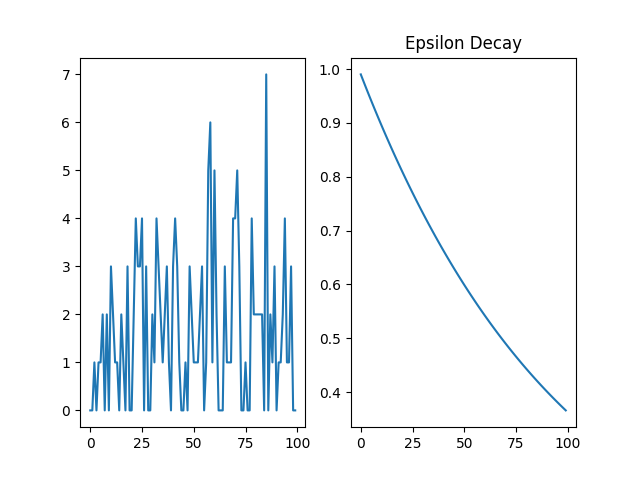
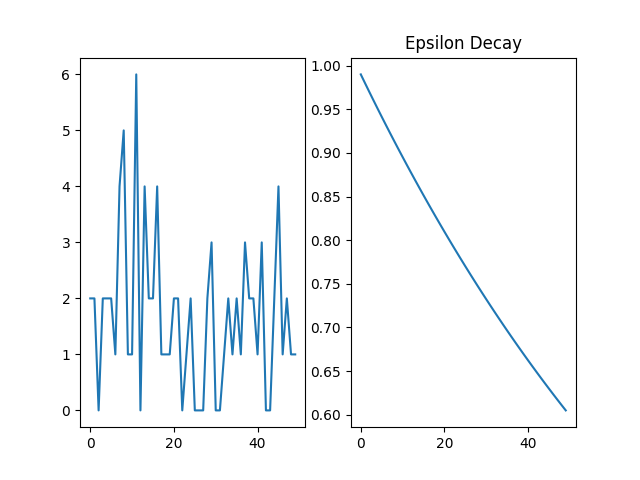
Refactoring

diff --git a/breakout_dqn.py b/breakout_dqn.py
@@ -1,15 +1,17 @@
+from visualization import plot_progress
+from core.ReplayMemory import ReplayMemory
+from helpers.FramePreprocess import preprocess_frame
+from helpers.FrameStack import FrameStack
+from core.NeuralNetwork import NeuralNetwork
+from core.CNN import CNN
+from torch import nn
+import torch
 import gymnasium as gym
 import ale_py
-import gymnasium as gym
 import numpy as np
 import random
-import torch
-from torch import nn
-import torch.nn.functional as F
-import torchvision.transforms as T
-from visualization import plot_progress
-from model import CNN, NeuralNetwork, ReplayMemory, FrameStack, preprocess_frame
 import os
+
 
 
 class BreakoutDQN:
@@ -23,7 +25,8 @@ class BreakoutDQN:
     epsilon_decay = 0.99
     num_hidden_nodes = 256
 
-    loss_fn = nn.MSELoss()
+    loss_fn = nn.HuberLoss()
+    #loss_fn = nn.MSELoss()
     optimizer = None
 
     def __init__(self):
@@ -49,7 +52,7 @@ class BreakoutDQN:
 
         for episode in range(1, episodes + 1):
             obs, info = env.reset()
-            lives = info.get("lives", 5)
+            #lives = info.get("lives", 5)
             obs, _, terminated, truncated, _ = env.step(1)
             obs = preprocess_frame(obs)
             frame_stack = FrameStack(4)
@@ -74,10 +77,10 @@ class BreakoutDQN:
                 frame_stack.append(next_obs)
                 next_state = frame_stack.get_stack().unsqueeze(0).float() / 255.0
 
-                current_lives = info.get("lives", lives)
-                if current_lives < lives:
-                    reward -= 10.0
-                    lives = current_lives
+                # current_lives = info.get("lives", lives)
+                # if current_lives < lives:
+                #     reward -= 10.0
+                #     lives = current_lives
 
                 self.memory.append((state, action, next_state, reward, terminated))
                 state = next_state
@@ -99,6 +102,8 @@ class BreakoutDQN:
             if episode % 10 == 0:
                 avg_reward = np.mean(rewards_per_episode[-10:])
                 print(f"Episode {episode}, Avg Reward: {avg_reward:.2f}, Epsilon: {self.epsilon:.3f}")
+                model_filename = f"models/CNN_breakout.pt"
+                torch.save(policy_dqn.state_dict(), model_filename)
 
                 # Check if we have a new best average reward
                 if avg_reward > best_avg_reward:
@@ -190,5 +195,5 @@ class BreakoutDQN:
 
 if __name__ == "__main__":
     breakout_dqn = BreakoutDQN()
-    breakout_dqn.train(episodes=100, render=False)
-    #breakout_dqn.test(10, "models/CNN_breakout_avg_5.pt")
+    breakout_dqn.train(episodes=50, render=False)
+    #breakout_dqn.test(10, "models/CNN_breakout_avg_3.pt")

diff --git a/core/CNN.py b/core/CNN.py
@@ -1,0 +1,28 @@
+import gymnasium as gym
+import numpy as np
+from collections import deque
+import random
+import torch
+from torch import nn
+import torch.nn.functional as F
+import torchvision.transforms as T
+
+
+class CNN(nn.Module):
+    def __init__(self, num_actions = 4, **argv):
+        super(CNN, self).__init__()
+        self.net = nn.Sequential(
+            nn.Conv2d(4, 32, kernel_size=8, stride=4),
+            nn.ReLU(),
+            nn.Conv2d(32, 64, kernel_size=4, stride=2),
+            nn.ReLU(),
+            nn.Conv2d(64, 64, kernel_size=3, stride=1),
+            nn.ReLU(),
+            nn.Flatten(),
+            nn.Linear(3136, 1024),  # 3136 = 64*7*7 Denna måste vara hardcoded
+            nn.ReLU(),
+            nn.Linear(1024, num_actions)
+        )
+
+    def forward(self, x):
+        return self.net(x)

diff --git a/core/NeuralNetwork.py b/core/NeuralNetwork.py
@@ -1,0 +1,24 @@
+import gymnasium as gym
+import numpy as np
+from collections import deque
+import random
+import torch
+from torch import nn
+import torch.nn.functional as F
+import torchvision.transforms as T
+
+
+class NeuralNetwork(nn.Module):
+
+    def __init__(self, in_states, hidden_layer_nodes, out_actions):
+        super().__init__()
+
+        self.fc1 = nn.Linear(in_states, hidden_layer_nodes) # Fully connected layer
+        self.fc2 = nn.Linear(hidden_layer_nodes, hidden_layer_nodes) # Fully connected layer
+        self.out = nn.Linear(hidden_layer_nodes, out_actions) # Output layer
+
+    def forward(self, x):
+        x = F.relu(self.fc1(x))
+        x = F.relu(self.fc2(x))
+        x = self.out(x)
+        return x

diff --git a/helpers/FrameStack.py b/helpers/FrameStack.py
@@ -1,0 +1,20 @@
+from collections import deque
+import torch
+
+
+class FrameStack:
+    def __init__(self, k):
+        self.k = k
+        self.frames = deque([], maxlen=k)
+
+    def reset(self):
+        """Call this at the beginning of an episode"""
+        self.frames.clear()
+
+    def append(self, obs):
+        self.frames.append(obs)
+
+    def get_stack(self):
+        assert len(self.frames) == self.k
+        return torch.cat(list(self.frames), dim=0)
+    

diff --git a/helpers/FramePreprocess.py b/helpers/FramePreprocess.py
@@ -1,0 +1,10 @@
+import torch
+import torchvision.transforms as T
+
+def preprocess_frame(obs):
+    obs = torch.tensor(obs)
+    obs = obs.permute(2, 0, 1).float()  # HWC → CHW
+    obs = T.functional.rgb_to_grayscale(obs)  # [1, 210, 160]
+    obs = obs[:, 34:34+160, :]  # crop to 160x160 to remove the score and some extra parts
+    obs = T.functional.resize(obs, (84, 84), interpolation=T.InterpolationMode.NEAREST)
+    return obs.to(torch.uint8)

diff --git a/core/ReplayMemory.py b/core/ReplayMemory.py
@@ -1,0 +1,16 @@
+from collections import deque
+import random
+
+class ReplayMemory():
+
+    def __init__(self, maxlen):
+        self.memory = deque([], maxlen=maxlen)
+    
+    def append(self, transition):
+        self.memory.append(transition)
+    
+    def sample(self, sample_size):
+        return random.sample(self.memory, sample_size)
+    
+    def __len__(self):
+        return len(self.memory)

diff --git a/core/__init__.py b/core/__init__.py
@@ -2,3 +2,6 @@
 
 from .agent import *
 from .model import *
+from .CNN import *
+from .ReplayMemory import *
+from .NeuralNetwork import *

diff --git a/helpers/__init__.py b/helpers/__init__.py
@@ -1,0 +1,1 @@
+from .FrameStack import *
